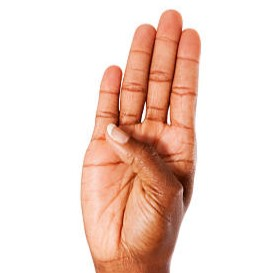
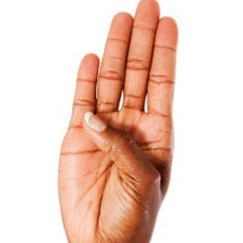
more testing external images

Changed region(s): [[0.2305, 0.0, 0.749, 1.0]]

diff --git a/live_detection.py b/live_detection.py
@@ -8,7 +8,7 @@ startDetection = time.time()
 # Load the trained model
 model = load_model('als_model.h5')
 
-test_image_path = 'images/b11.png'  # Replace with the path to your test image 
+test_image_path = 'images/b9.jpg'  # Replace with the path to your test image 
 img_size = (400, 400)
 
 test_img = cv2.imread(test_image_path)
